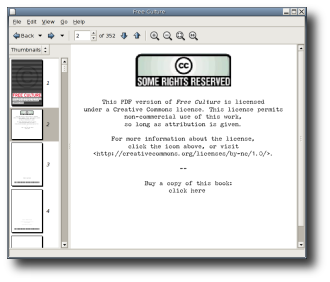
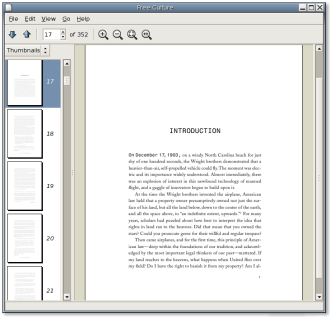
Updated screenshots for evince's new toolbar Added new screenshots for evince's password locked documents, indexes, searching, and file opener.  Other than that I've been trying to avoid the real work I have to do.

diff --git a/www.gnome.org/projects/evince/screenshots/index.html b/www.gnome.org/projects/evince/screenshots/index.html
@@ -4,7 +4,7 @@
 
 <html xmlns="http://www.w3.org/1999/xhtml" lang="en-US" xml:lang="en-US">
 <head>
-  <title>Evince – Simply a document viewer</title>
+  <title>Evince â Simply a document viewer</title>
   <meta http-equiv="Content-type" content="text/html; charset=utf-8" />
   <link rel="icon" type="image/png" href="../images/evince-16.png" />
   <link rel="stylesheet" type="text/css" href="../evince.css" />
@@ -28,8 +28,26 @@
 
 		<br clear="all"/>
 
-	  <a href="../images/thumbnail-full.png"">
-		<img src="../images/thumbnail.png" />
+	  <a href="../images/screenshot-hig.pdf-full.png"">
+		<img src="../images/screenshot-hig.pdf.png" />
+	  </a>
+
+		<br clear="all"/>
+
+	  <a href="../images/screenshot-open-document-full.png"">
+		<img src="../images/screenshot-open-document.png" />
+	  </a>
+
+		<br clear="all"/>
+
+	  <a href="../images/screenshot-secret_document-full.png"">
+		<img src="../images/screenshot-secret_document-full.png" />
+	  </a>
+
+		<br clear="all"/>
+
+	  <a href="../images/screenshot-find-full.png"">
+		<img src="../images/screenshot-find.png" />
 	  </a>
 	</div>
 
